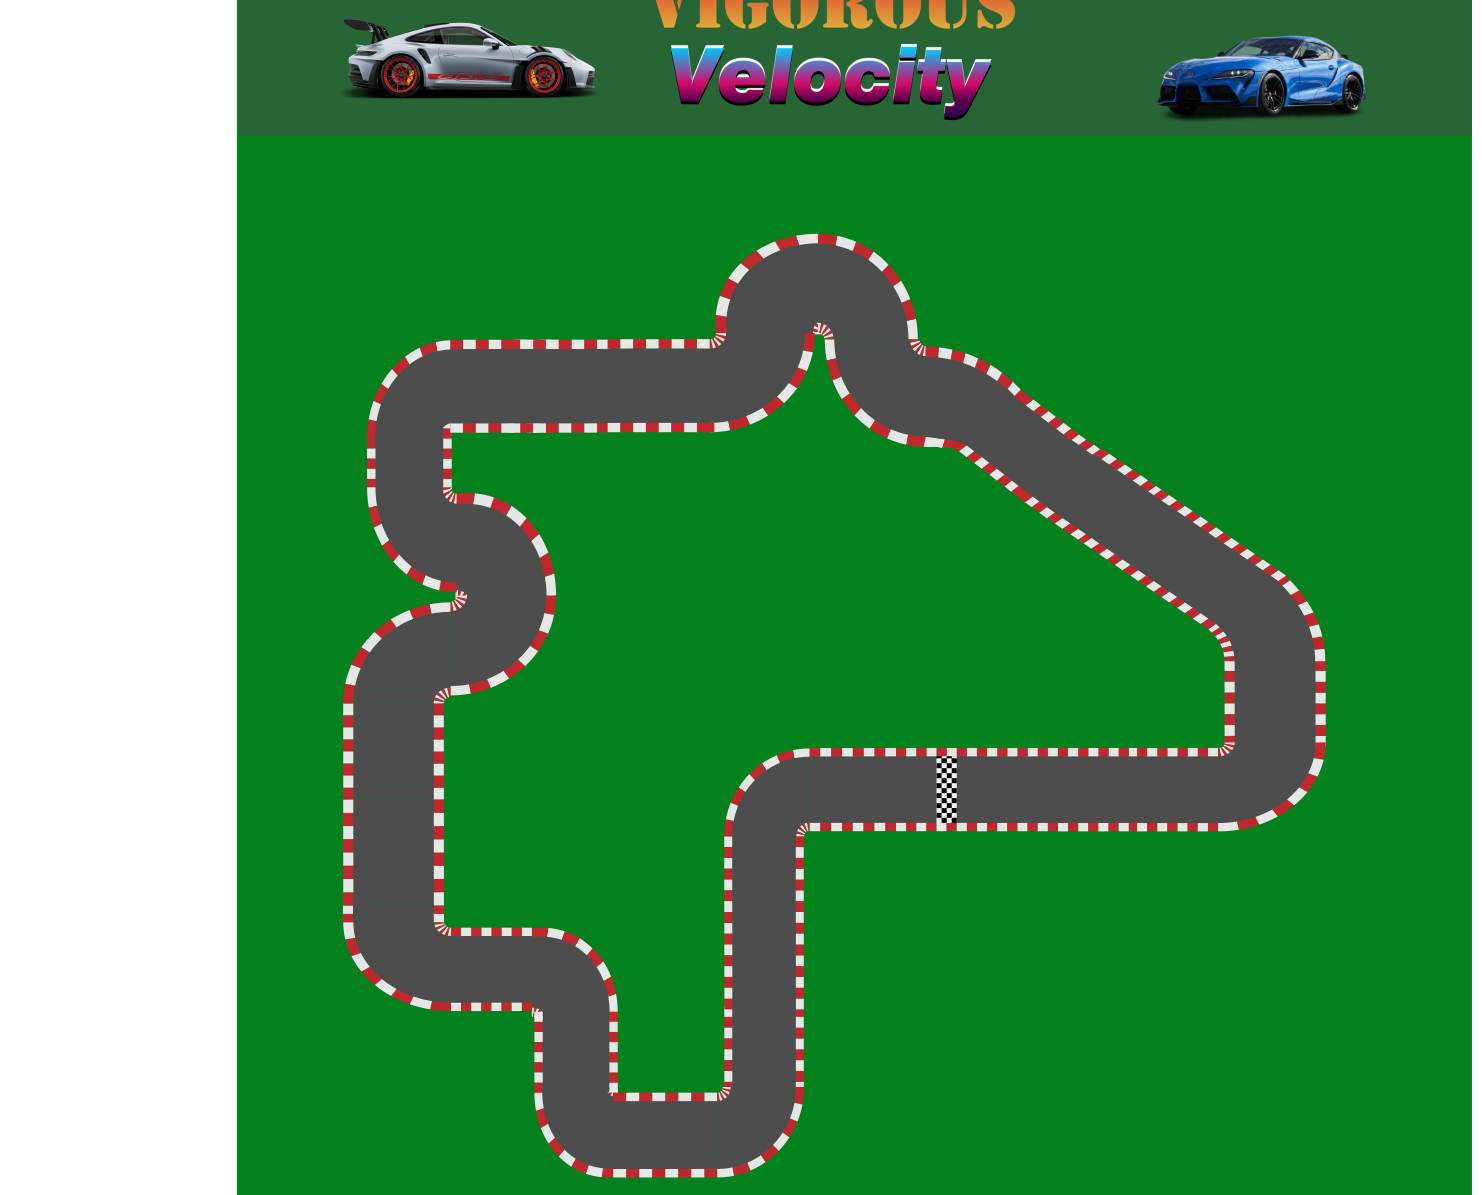
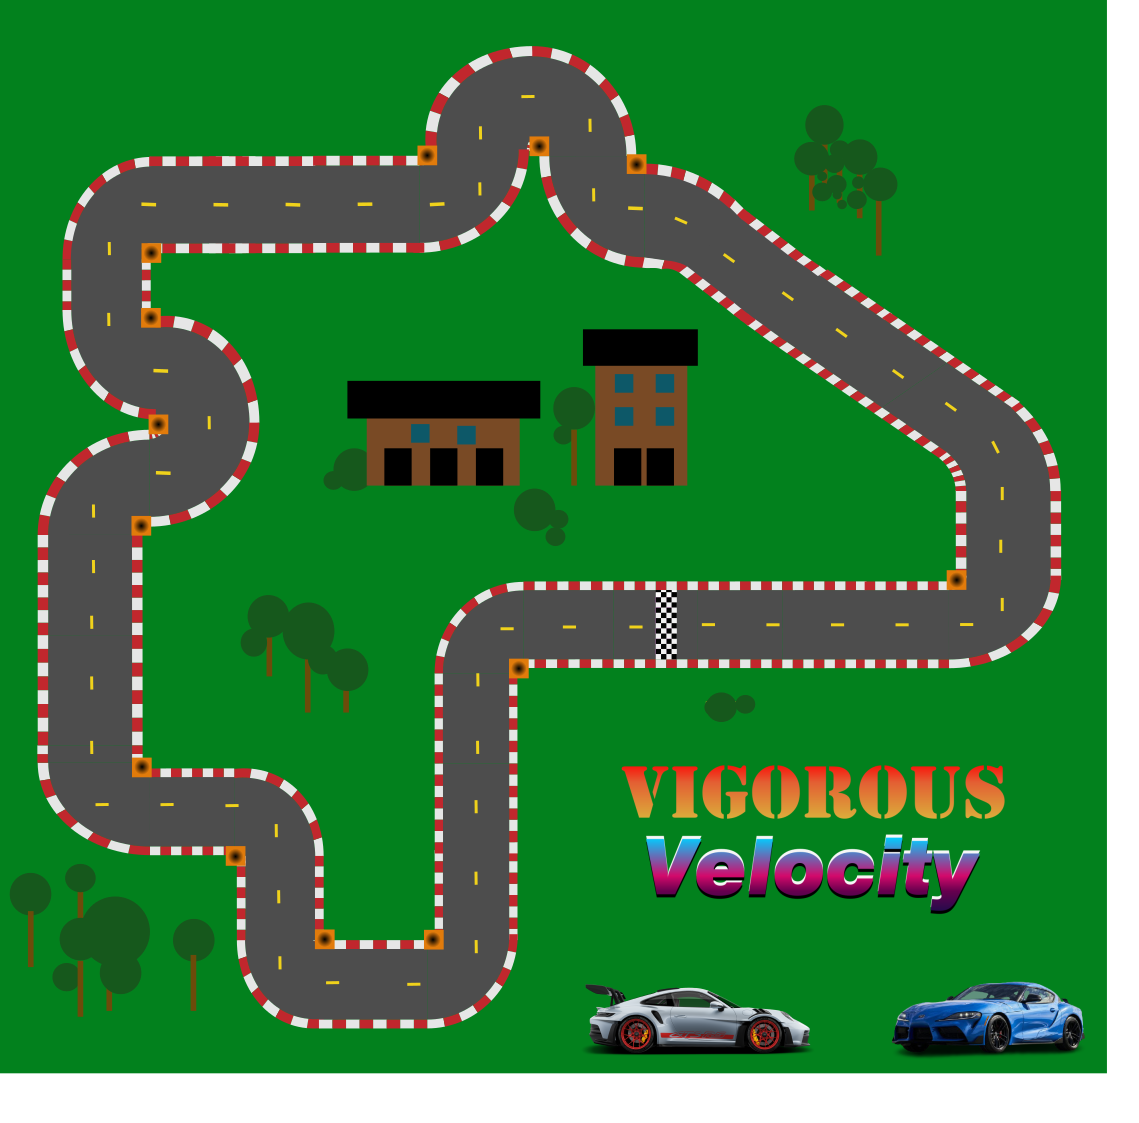
collision and walls needed before turn in (moved timer and lap count) (map has been updated

diff --git a/src/Racer.java b/src/Racer.java
@@ -123,7 +123,7 @@ public class Racer {
 
             //default images for the game
             gameCover = ImageIO.read(new File("src/images/coverlogo.png"));
-            background = ImageIO.read(new File("src/images/track(rough draft).png"));
+            background = ImageIO.read(new File("src/images/track1.png"));
             player = ImageIO.read(new File("src/images/supratopview.png"));
             player2 = ImageIO.read(new File("src/images/poschetop.png"));
 
